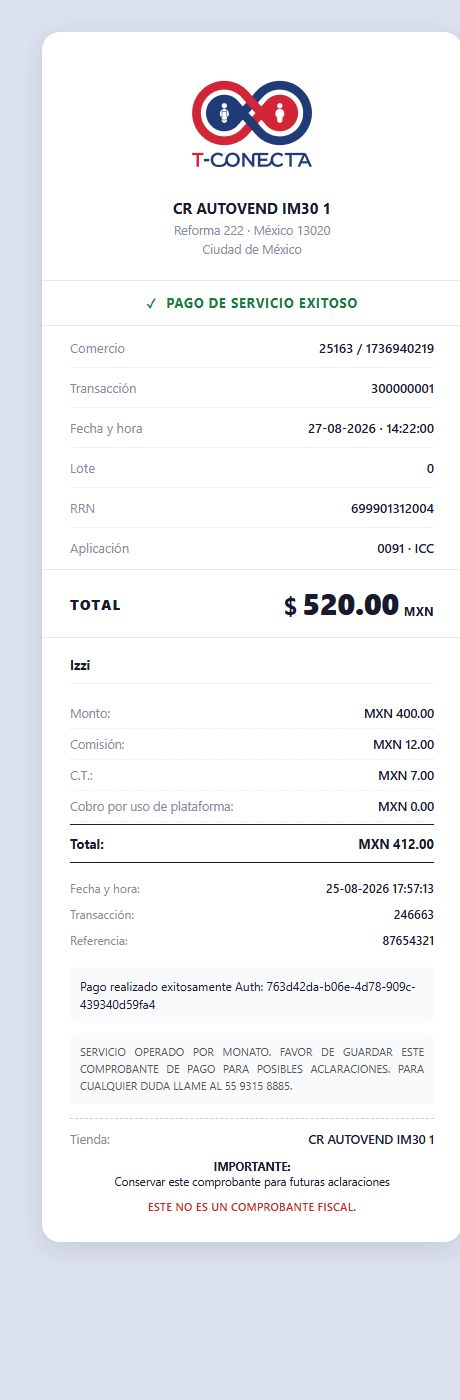
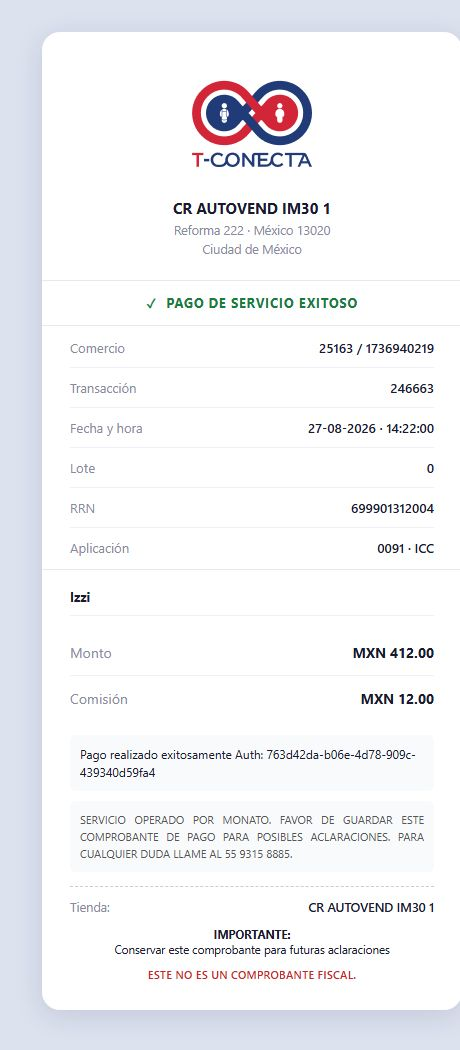
no message

Changed region(s): [[0.0913, 0.0, 1.0, 0.9752], [0.3957, 0.5486, 0.487, 0.579], [0.3348, 0.5486, 0.3652, 0.579]]

diff --git a/mockup_pds.html b/mockup_pds.html
@@ -80,18 +80,17 @@
     .row-label { font-size: 13px; color: #8a8a9e; font-weight: 400; flex-shrink: 0; }
     .row-value { font-size: 13px; color: #1a1a2e; font-weight: 600; text-align: right; margin-left: 12px; }
 
-    /* ── Total (tarjeta) ── */
-    .ticket-total {
+    /* ── Filas de resumen (Monto / Comisión) — mismo tamaño ── */
+    .summary-row {
       display: flex;
       justify-content: space-between;
       align-items: center;
-      padding: 18px 0 16px;
+      padding: 13px 0;
+      border-bottom: 1px solid #f0f1f7;
     }
-    .total-label { font-size: 14px; font-weight: 800; color: #1a1a2e; letter-spacing: 0.06em; }
-    .total-amount { display: flex; align-items: baseline; gap: 3px; color: #1a1a2e; }
-    .total-amount .sym { font-size: 24px; font-weight: 700; margin-right: 2px; }
-    .total-amount .num { font-size: 30px; font-weight: 800; letter-spacing: -0.5px; line-height: 1; }
-    .total-amount .curr { font-size: 12px; font-weight: 700; letter-spacing: 0.04em; align-self: flex-end; margin-bottom: 2px; margin-left: 2px; }
+    .summary-row.last { border-bottom: none; }
+    .summary-label { font-size: 14px; font-weight: 400; color: #8a8a9e; }
+    .summary-value { font-size: 14px; font-weight: 700; color: #1a1a2e; }
 
     /* ────────────────────────────────────────────────── */
     /* ── NUEVA SECCIÓN PDS (debajo del divider) ──────── */
@@ -229,7 +228,7 @@
       </div>
       <div class="ticket-row">
         <span class="row-label">Transacción</span>
-        <span class="row-value">300000001</span>
+        <span class="row-value">246663</span>
       </div>
       <div class="ticket-row">
         <span class="row-label">Fecha y hora</span>
@@ -249,18 +248,6 @@
       </div>
     </div>
 
-    <div class="divider"></div>
-
-    <!-- ── Total (cargo a la tarjeta) ── -->
-    <div class="ticket-total">
-      <span class="total-label">TOTAL</span>
-      <div class="total-amount">
-        <span class="sym">$</span>
-        <span class="num">520.00</span>
-        <span class="curr">MXN</span>
-      </div>
-    </div>
-
     <!-- ══════════════════════════════════════════════ -->
     <!-- ── DIVISIÓN + SECCIÓN PDS ────────────────── -->
     <!-- ══════════════════════════════════════════════ -->
@@ -271,44 +258,14 @@
       <!-- Nombre del servicio -->
       <p class="pds-service-name">Izzi</p>
 
-      <!-- Montos -->
-      <div class="pds-row">
-        <span class="pds-row-label">Monto:</span>
-        <span class="pds-row-value">MXN 400.00</span>
+      <!-- Monto y Comisión — mismo tamaño -->
+      <div class="summary-row">
+        <span class="summary-label">Monto</span>
+        <span class="summary-value">MXN 412.00</span>
       </div>
-      <div class="pds-row">
-        <span class="pds-row-label">Comisión:</span>
-        <span class="pds-row-value">MXN 12.00</span>
-      </div>
-      <div class="pds-row">
-        <span class="pds-row-label">C.T.:</span>
-        <span class="pds-row-value">MXN 7.00</span>
-      </div>
-      <div class="pds-row">
-        <span class="pds-row-label">Cobro por uso de plataforma:</span>
-        <span class="pds-row-value">MXN 0.00</span>
-      </div>
-
-      <!-- Total PDS -->
-      <div class="pds-total-row">
-        <span class="pds-total-label">Total:</span>
-        <span class="pds-total-value">MXN 412.00</span>
-      </div>
-
-      <!-- Fecha / Transacción / Referencia -->
-      <div class="pds-meta">
-        <div class="pds-meta-row">
-          <span class="pds-meta-label">Fecha y hora:</span>
-          <span class="pds-meta-value">25-08-2026 17:57:13</span>
-        </div>
-        <div class="pds-meta-row">
-          <span class="pds-meta-label">Transacción:</span>
-          <span class="pds-meta-value">246663</span>
-        </div>
-        <div class="pds-meta-row">
-          <span class="pds-meta-label">Referencia:</span>
-          <span class="pds-meta-value">87654321</span>
-        </div>
+      <div class="summary-row last">
+        <span class="summary-label">Comisión</span>
+        <span class="summary-value">MXN 12.00</span>
       </div>
 
       <!-- Auth -->

diff --git a/mockup_pds_standalone.html b/mockup_pds_standalone.html
@@ -80,18 +80,17 @@
     .row-label { font-size: 13px; color: #8a8a9e; font-weight: 400; flex-shrink: 0; }
     .row-value { font-size: 13px; color: #1a1a2e; font-weight: 600; text-align: right; margin-left: 12px; }
 
-    /* ── Total (tarjeta) ── */
-    .ticket-total {
+    /* ── Filas de resumen (Monto / Comisión) — mismo tamaño ── */
+    .summary-row {
       display: flex;
       justify-content: space-between;
       align-items: center;
-      padding: 18px 0 16px;
+      padding: 13px 0;
+      border-bottom: 1px solid #f0f1f7;
     }
-    .total-label { font-size: 14px; font-weight: 800; color: #1a1a2e; letter-spacing: 0.06em; }
-    .total-amount { display: flex; align-items: baseline; gap: 3px; color: #1a1a2e; }
-    .total-amount .sym { font-size: 24px; font-weight: 700; margin-right: 2px; }
-    .total-amount .num { font-size: 30px; font-weight: 800; letter-spacing: -0.5px; line-height: 1; }
-    .total-amount .curr { font-size: 12px; font-weight: 700; letter-spacing: 0.04em; align-self: flex-end; margin-bottom: 2px; margin-left: 2px; }
+    .summary-row.last { border-bottom: none; }
+    .summary-label { font-size: 14px; font-weight: 400; color: #8a8a9e; }
+    .summary-value { font-size: 14px; font-weight: 700; color: #1a1a2e; }
 
     /* ────────────────────────────────────────────────── */
     /* ── NUEVA SECCIÓN PDS (debajo del divider) ──────── */
@@ -229,7 +228,7 @@
       </div>
       <div class="ticket-row">
         <span class="row-label">Transacción</span>
-        <span class="row-value">300000001</span>
+        <span class="row-value">246663</span>
       </div>
       <div class="ticket-row">
         <span class="row-label">Fecha y hora</span>
@@ -249,18 +248,6 @@
       </div>
     </div>
 
-    <div class="divider"></div>
-
-    <!-- ── Total (cargo a la tarjeta) ── -->
-    <div class="ticket-total">
-      <span class="total-label">TOTAL</span>
-      <div class="total-amount">
-        <span class="sym">$</span>
-        <span class="num">520.00</span>
-        <span class="curr">MXN</span>
-      </div>
-    </div>
-
     <!-- ══════════════════════════════════════════════ -->
     <!-- ── DIVISIÓN + SECCIÓN PDS ────────────────── -->
     <!-- ══════════════════════════════════════════════ -->
@@ -271,44 +258,14 @@
       <!-- Nombre del servicio -->
       <p class="pds-service-name">Izzi</p>
 
-      <!-- Montos -->
-      <div class="pds-row">
-        <span class="pds-row-label">Monto:</span>
-        <span class="pds-row-value">MXN 400.00</span>
+      <!-- Monto y Comisión — mismo tamaño -->
+      <div class="summary-row">
+        <span class="summary-label">Monto</span>
+        <span class="summary-value">MXN 412.00</span>
       </div>
-      <div class="pds-row">
-        <span class="pds-row-label">Comisión:</span>
-        <span class="pds-row-value">MXN 12.00</span>
-      </div>
-      <div class="pds-row">
-        <span class="pds-row-label">C.T.:</span>
-        <span class="pds-row-value">MXN 7.00</span>
-      </div>
-      <div class="pds-row">
-        <span class="pds-row-label">Cobro por uso de plataforma:</span>
-        <span class="pds-row-value">MXN 0.00</span>
-      </div>
-
-      <!-- Total PDS -->
-      <div class="pds-total-row">
-        <span class="pds-total-label">Total:</span>
-        <span class="pds-total-value">MXN 412.00</span>
-      </div>
-
-      <!-- Fecha / Transacción / Referencia -->
-      <div class="pds-meta">
-        <div class="pds-meta-row">
-          <span class="pds-meta-label">Fecha y hora:</span>
-          <span class="pds-meta-value">25-08-2026 17:57:13</span>
-        </div>
-        <div class="pds-meta-row">
-          <span class="pds-meta-label">Transacción:</span>
-          <span class="pds-meta-value">246663</span>
-        </div>
-        <div class="pds-meta-row">
-          <span class="pds-meta-label">Referencia:</span>
-          <span class="pds-meta-value">87654321</span>
-        </div>
+      <div class="summary-row last">
+        <span class="summary-label">Comisión</span>
+        <span class="summary-value">MXN 12.00</span>
       </div>
 
       <!-- Auth -->
